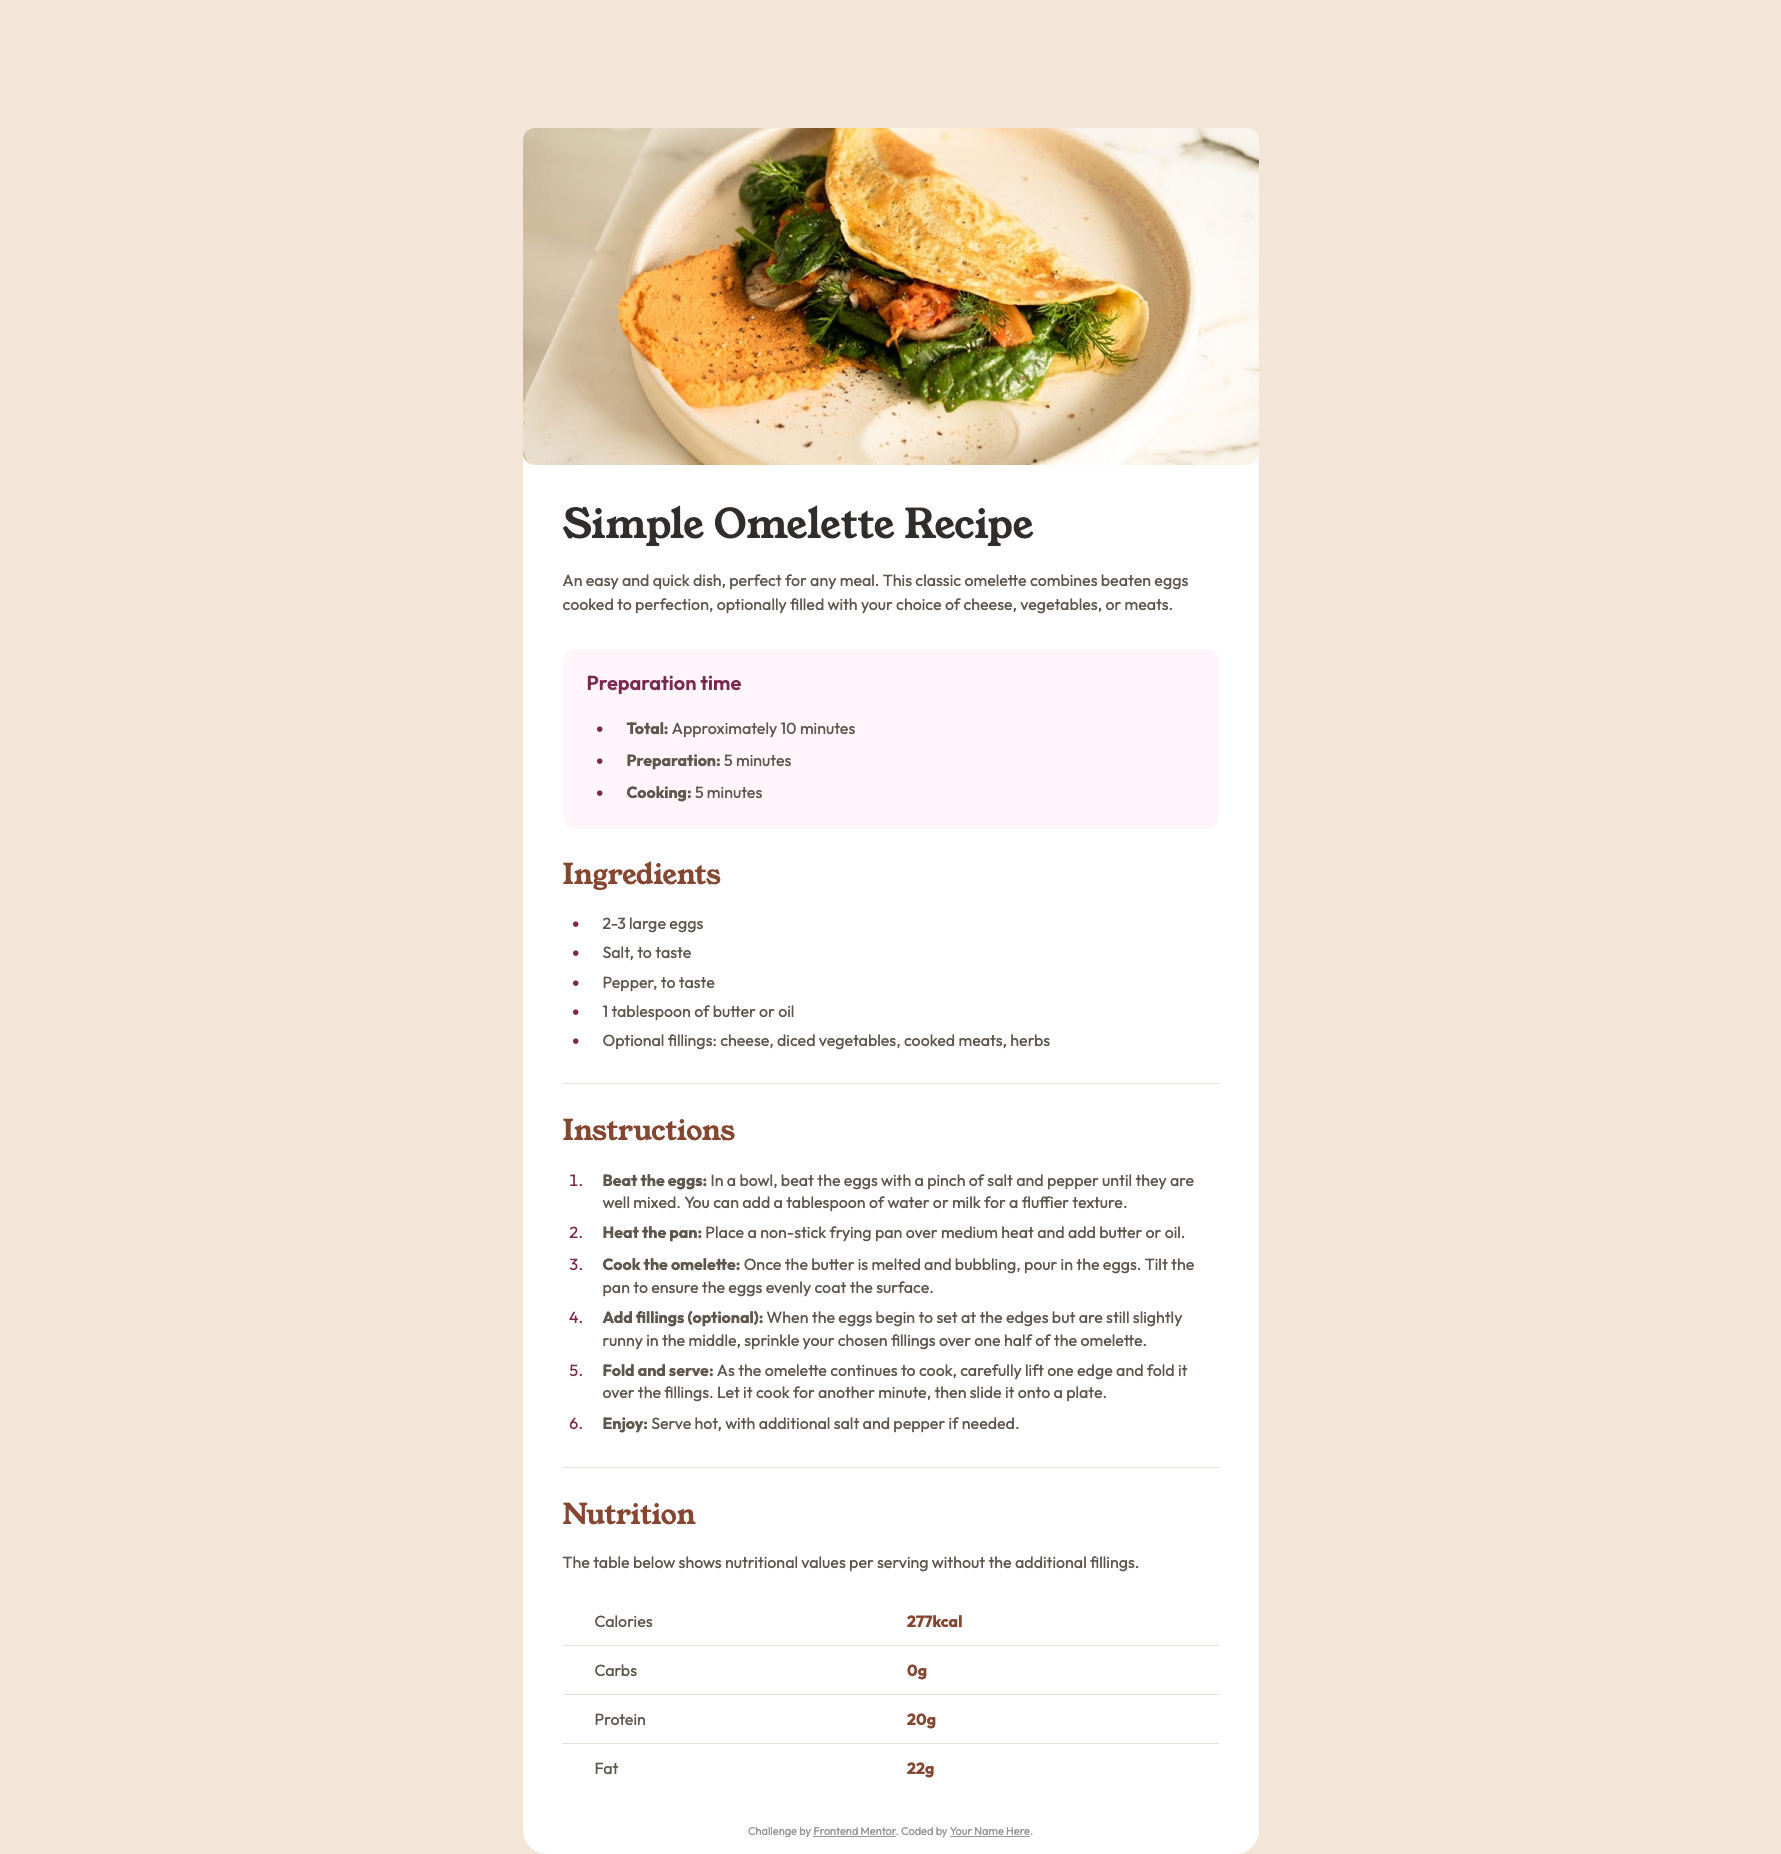
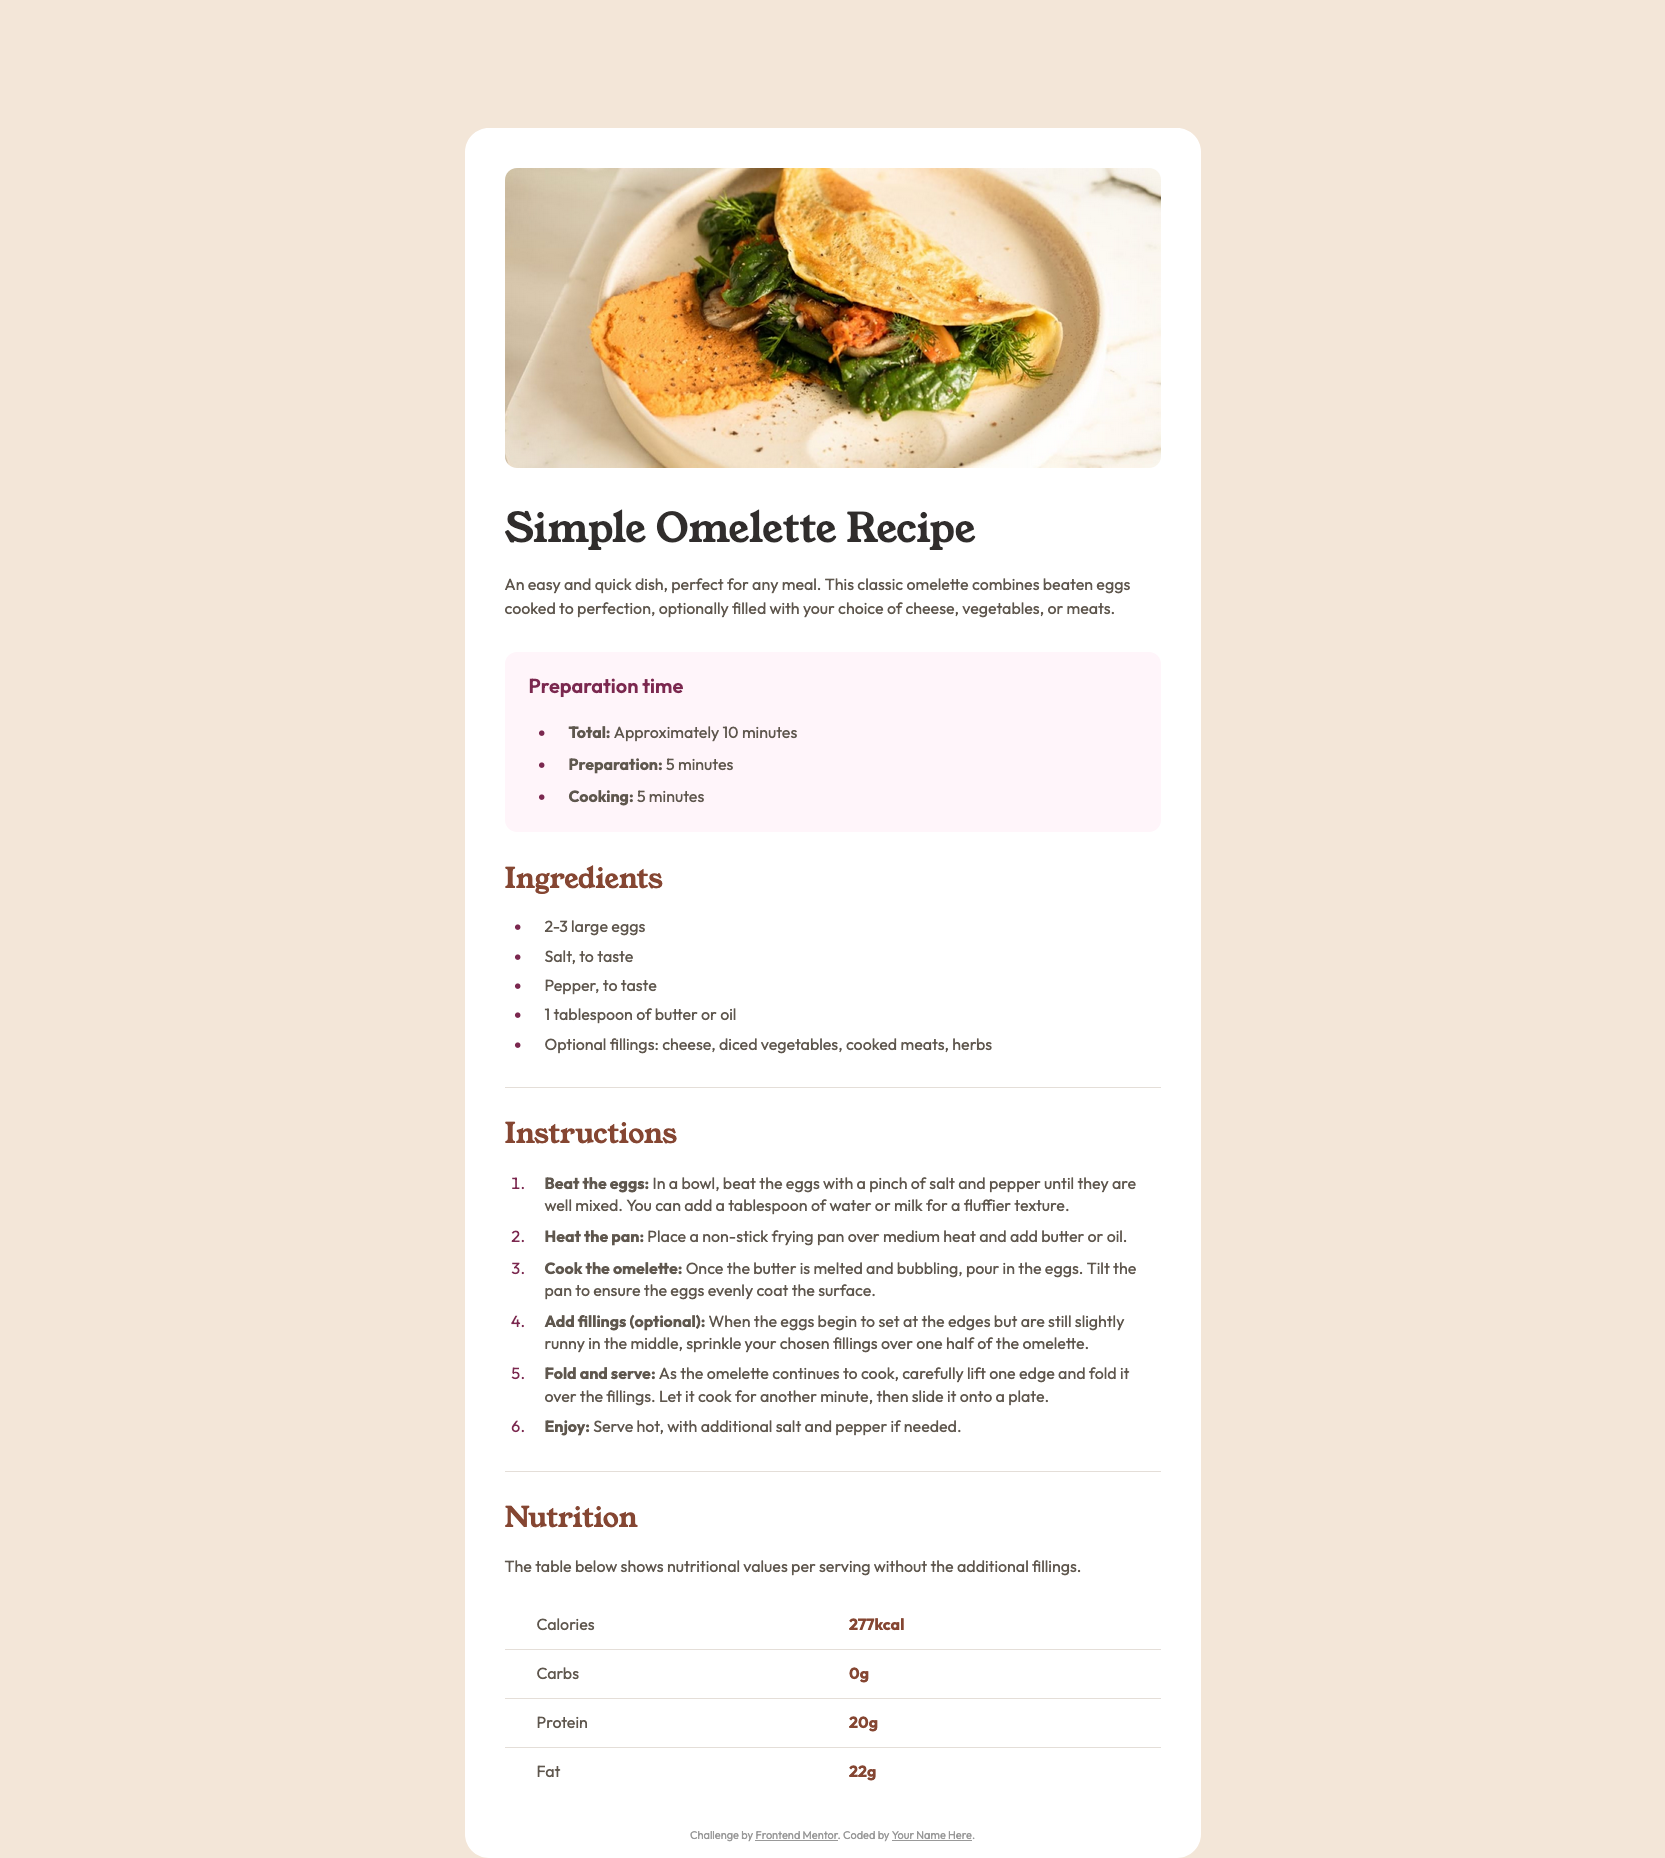
Update screenshot in README file

diff --git a/style.css b/style.css
@@ -184,6 +184,7 @@
             border-radius: var(--sp-24);
             margin-inline: auto;
             margin-top: var(--sp-128);
+            padding-top: var(--sp-40);
             width: calc(616 / 16 * 1rem);
         }
 
@@ -191,7 +192,18 @@
             border-radius: var(--sp-24);
             margin-inline: auto;
             margin-top: var(--sp-128);
+            padding-top: var(--sp-40);
             width: calc(736 / 16 * 1rem);
+        }
+    }
+
+    header {
+        @media (width >= calc(768 / 16 * 1rem)) and (width <= calc(1024 / 16 * 1rem)) {
+            padding: 0 var(--sp-40);
+        }
+
+        @media (width > calc(1024 / 16 * 1rem)) {
+            padding: 0 var(--sp-40);
         }
     }
 